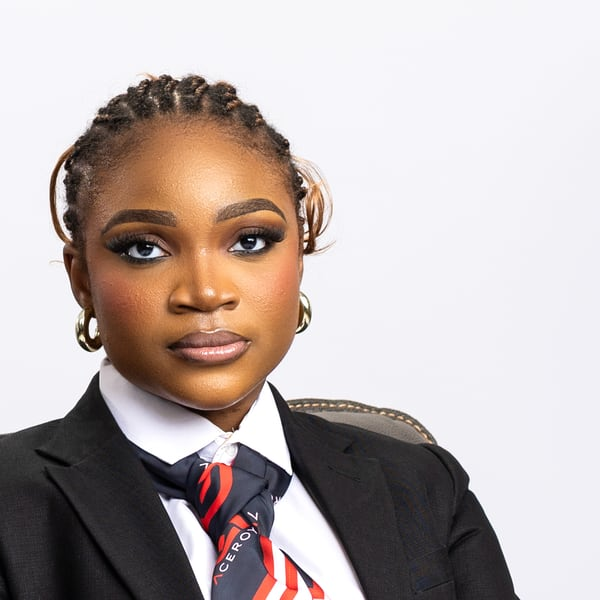
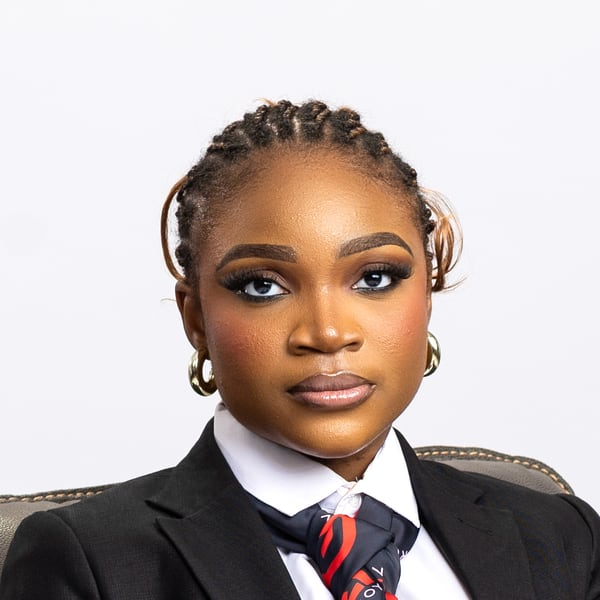
Apply client feedback: contact numbers, hero image, Legacy Garden City
- Office numbers corrected (Lagos +234 915 654 9709, Abuja
  +234 802 764 0727, Benin +234 915 658 8738 / +234 916 112 4425); the
  0201 line removed from the contact page, footer, chat sheet and
  structured data. All numbers shown in +234 format and office numbers
  are tap-to-call links
- Homepage hero: replace the New York street scene with Aceroyal's own
  site-inspection team photo; the skyline slides stay
- Add The Legacy Garden City (Imota, Ikorodu) as a sold-out estate with
  its branded thumbnail and allocation-day gallery; /legacy-garden now
  redirects to its page
- Sold-out estate pages: legible Sold Out badge and no Enquire to
  Purchase button
- Re-centre Annabelle Uroh's headshot

diff --git a/src/lib/fallback-data.ts b/src/lib/fallback-data.ts
@@ -217,6 +217,30 @@ export const fallbackEstates: Estate[] = [
     updatedAt: '2023-03-24T00:00:00.000Z',
   },
   {
+    // Added as a sold-out listing at Aceroyal's request (Oct 2026 feedback).
+    // Description only states facts already on the site: location (from the
+    // branded thumbnail) and the Phase 1 allocation day.
+    id: 'fallback-estate-legacy-garden-city',
+    name: 'The Legacy Garden City',
+    slug: 'legacy-garden-city',
+    description:
+      'The Legacy Garden City is a residential estate at Imota, Ikorodu, Lagos.\n\nAllocation for Phase 1 took place on August 10th, 2024, when landowners received their documents and walked their plots on site. The estate has now sold out.',
+    state: 'Lagos',
+    city: 'Imota, Ikorodu',
+    address: 'Imota, Ikorodu, Lagos',
+    coverImage: '/images/estates/thumbnails/legacy-garden-city.jpg',
+    brochureUrl: null,
+    gallery: [
+      '/images/gallery/allocation-day/legacy-garden-city-allocated.jpg',
+      '/images/gallery/allocation-day/legacy-garden-city-key.jpg',
+    ],
+    status: 'SOLD_OUT',
+    amenities: [],
+    offeringType: 'LAND',
+    createdAt: '2024-08-10T00:00:00.000Z',
+    updatedAt: '2024-08-10T00:00:00.000Z',
+  },
+  {
     id: 'fallback-estate-novena',
     name: 'Novena Estate Phase 2',
     slug: 'novena-estate-phase-2',
@@ -1004,7 +1028,7 @@ export const fallbackBlogPosts = [
     slug: 'metro-city-garden-price-increase-alert',
     excerpt: 'Metro City Garden’s price just jumped from ₦850,000 to ₦1,500,000. See the new pricing and what’s driving the Buy & Hold strategy.',
     content:
-      'The investment strategy called Buy & Hold. It’s a very strategic investment that mostly requires a little chunk of your money, resource, time, and above all, patience.\n\nResearch has shown that the Buy & Hold strategy is one outstanding way to triple your real estate portfolio if you have the patience.\n\nNow unto the good news. Metro City Garden price increase alert: from ₦850,000 to ₦1,500,000. This is so much good news to those who subscribed to the just concluded promo. See how your investment just appreciated in a blink.\n\nMetro City Garden now selling: 500sqm at ₦1,500,000, 300sqm at ₦1,000,000. Location: Itoikin, Epe. Landmarks: Lagos State Food Hub, District 1, Ajebo Grammar School, Isime Lagos.\n\nFeatures: perimeter fencing, green areas, dry land, 24-hour power, water supply, drainage, and more. Title: Freehold/Registered Survey.\n\nMetro City Garden guarantees 100% ROI just as you can see now. Join a team of landowners today and experience peace of mind. For more information, contact our customer care lines: 09156549709, 08053605093.\n\n~ACE, building the future together.',
+      'The investment strategy called Buy & Hold. It’s a very strategic investment that mostly requires a little chunk of your money, resource, time, and above all, patience.\n\nResearch has shown that the Buy & Hold strategy is one outstanding way to triple your real estate portfolio if you have the patience.\n\nNow unto the good news. Metro City Garden price increase alert: from ₦850,000 to ₦1,500,000. This is so much good news to those who subscribed to the just concluded promo. See how your investment just appreciated in a blink.\n\nMetro City Garden now selling: 500sqm at ₦1,500,000, 300sqm at ₦1,000,000. Location: Itoikin, Epe. Landmarks: Lagos State Food Hub, District 1, Ajebo Grammar School, Isime Lagos.\n\nFeatures: perimeter fencing, green areas, dry land, 24-hour power, water supply, drainage, and more. Title: Freehold/Registered Survey.\n\nMetro City Garden guarantees 100% ROI just as you can see now. Join a team of landowners today and experience peace of mind. For more information, contact our customer care lines: +234 915 654 9709, +234 805 360 5093.\n\n~ACE, building the future together.',
     coverImageUrl: '/images/estates/metro-city-garden/metro-city-flyer.jpg',
     published: true,
     createdAt: '2023-03-24T00:00:00.000Z',
@@ -1028,7 +1052,7 @@ export const fallbackBlogPosts = [
     slug: 'goody-bag-promo',
     excerpt: 'Buy a plot at Novena Estate Phase 2 and get 100 bags of Dangote Cement free.',
     content:
-      'Promo! Promo!! Promo!!! AceRoyal got you covered.\n\nAceRoyal Estates Homes Ltd is known for the amazing promos they always make available to their clients. The Goody Bag Promo is the promo of the century. It’s the first of its kind. No other estate company does it better than ACEROYAL.\n\nWhen you buy 1 plot of land in Novena Estate Phase 2, you get 100 bags of Dangote Cement free of charge. With this, you can start fencing your land or start the foundation of your house in Novena Estate 2, Iraye, Epe.\n\nWe don’t just sell land to you, we also support your vision of becoming a homeowner.\n\nJump on this offer today by calling 09156549709 to book an inspection with us now!\n\nAceroyal: we are building the future together!',
+      'Promo! Promo!! Promo!!! AceRoyal got you covered.\n\nAceRoyal Estates Homes Ltd is known for the amazing promos they always make available to their clients. The Goody Bag Promo is the promo of the century. It’s the first of its kind. No other estate company does it better than ACEROYAL.\n\nWhen you buy 1 plot of land in Novena Estate Phase 2, you get 100 bags of Dangote Cement free of charge. With this, you can start fencing your land or start the foundation of your house in Novena Estate 2, Iraye, Epe.\n\nWe don’t just sell land to you, we also support your vision of becoming a homeowner.\n\nJump on this offer today by calling +234 915 654 9709 to book an inspection with us now!\n\nAceroyal: we are building the future together!',
     coverImageUrl: '/images/estates/novena-estate/novena-goody-bag-flyer.jpg',
     published: true,
     createdAt: '2022-10-17T00:00:00.000Z',
@@ -1052,7 +1076,7 @@ export const fallbackBlogPosts = [
     slug: 'estate-launch-la-regina-luxury-resort-and-novena-estate-phase-2',
     excerpt: 'AceRoyal officially launches La Regina Luxury Resort Estate (Ketu, Epe) and Novena Estate Phase 2 (Iraye, Epe).',
     content:
-      'You’re invited!\n\nAceRoyal Estates Homes Ltd invites the general public to the launching of her estates: La Regina Luxury Resort Estate, located at Ketu, Epe, and Novena Estate Phase 2, located at Iraye, Epe.\n\nWith Coach Spark Ovadje as the Chief Launcher and host of other co-launchers. If you know Coach Spark very well (Nigeria’s National Real Estate Coach), then you will know this is not an event to miss, because there is so much to learn and unlearn!\n\nThere are a lot of amazing things that will happen on that day. We will have a raffle draw where so many persons will have the opportunity of winning a free standing fan, an electric kettle, a LED TV, a mini-refrigerator, and lots more!\n\nBuses will be available at strategic locations to pick and drop you off.\n\nYou will have plenty to eat and drink.\n\nThe time remains 9 AM on Saturday, June 18th, 2022. See you on Saturday, and till then, please stay safe!\n\nCall/WhatsApp 09156549709 for further inquiries.',
+      'You’re invited!\n\nAceRoyal Estates Homes Ltd invites the general public to the launching of her estates: La Regina Luxury Resort Estate, located at Ketu, Epe, and Novena Estate Phase 2, located at Iraye, Epe.\n\nWith Coach Spark Ovadje as the Chief Launcher and host of other co-launchers. If you know Coach Spark very well (Nigeria’s National Real Estate Coach), then you will know this is not an event to miss, because there is so much to learn and unlearn!\n\nThere are a lot of amazing things that will happen on that day. We will have a raffle draw where so many persons will have the opportunity of winning a free standing fan, an electric kettle, a LED TV, a mini-refrigerator, and lots more!\n\nBuses will be available at strategic locations to pick and drop you off.\n\nYou will have plenty to eat and drink.\n\nThe time remains 9 AM on Saturday, June 18th, 2022. See you on Saturday, and till then, please stay safe!\n\nCall/WhatsApp +234 915 654 9709 for further inquiries.',
     coverImageUrl: '/images/blog/estate-launch/launch-invite-flyer.jpg',
     published: true,
     createdAt: '2022-06-17T00:00:00.000Z',
@@ -1519,7 +1543,7 @@ export const fallbackOffices = [
     state: 'Lagos',
     city: 'Ajah',
     address: 'KM 22 Lekki-Epe Expressway, By University View Estate, Opposite Lagos Business School, Ajah, Lagos, Nigeria.',
-    phones: ['02013300287', '09156549709'],
+    phones: ['+234 915 654 9709'],
     emails: ['customercare@aceroyalestates.com'],
     openingHours: 'Mon-Fri: 9am - 5pm',
   },
@@ -1531,7 +1555,7 @@ export const fallbackOffices = [
     state: 'Abuja',
     city: 'Gwarimpa',
     address: 'House A, 45 Road off Navy Quarters, By First Avenue, Gwarimpa, Abuja.',
-    phones: ['02013300287', '09156549709'],
+    phones: ['+234 802 764 0727'],
     emails: ['customercare@aceroyalestates.com'],
     openingHours: 'Mon-Fri: 9am - 5pm',
   },
@@ -1543,7 +1567,7 @@ export const fallbackOffices = [
     state: 'Edo',
     city: 'Benin City',
     address: 'No 2 New Lagos Road, Off 2nd Junction, by Akpakpava, Benin City.',
-    phones: ['02013300287', '09156549709'],
+    phones: ['+234 915 658 8738', '+234 916 112 4425'],
     emails: ['customercare@aceroyalestates.com'],
     openingHours: 'Mon-Fri: 9am - 5pm',
   },

diff --git a/src/app/contact/ContactForm.tsx b/src/app/contact/ContactForm.tsx
@@ -15,6 +15,12 @@ import { Stagger } from '@/components/motion/Stagger';
 
 const WHATSAPP_NUMBER = '2349156549709';
 
+// '+234 915 654 9709' (or a local '0915...' number) -> 'tel:+2349156549709'
+function telHref(phone: string) {
+  const digits = phone.replace(/\D/g, '');
+  return `tel:+${digits.startsWith('0') ? `234${digits.slice(1)}` : digits}`;
+}
+
 export default function ContactForm() {
   const [formData, setFormData] = useState({
     fullName: '',
@@ -252,13 +258,13 @@ export default function ContactForm() {
                   <div className="p-8">
                   <h2 className="text-xl font-bold mb-6">Reach Us Directly</h2>
                   <div className="space-y-5">
-                    <a href="tel:+2342013300287" className="flex items-start gap-4 group">
+                    <a href="tel:+2349156549709" className="flex items-start gap-4 group">
                       <div className="bg-primary/10 p-3 rounded-lg shrink-0">
                         <Phone className="w-5 h-5 text-primary" />
                       </div>
                       <div>
                         <h3 className="font-semibold mb-1 group-hover:text-primary transition-colors">Phone</h3>
-                        <p className="text-sm text-muted-foreground">0201 330 0287, 0915 654 9709</p>
+                        <p className="text-sm text-muted-foreground">+234 915 654 9709</p>
                       </div>
                     </a>
 
@@ -341,7 +347,13 @@ export default function ContactForm() {
                     <h3 className="font-semibold mb-2">{office.name || `${office.city || office.state} Office`}</h3>
                     <p className="text-sm text-muted-foreground leading-relaxed mb-3">{office.address}</p>
                     {office.phones?.length > 0 && (
-                      <p className="text-sm text-muted-foreground">{office.phones.join(', ')}</p>
+                      <p className="flex flex-wrap gap-x-3 gap-y-1 text-sm text-muted-foreground">
+                        {office.phones.map((phone: string) => (
+                          <a key={phone} href={telHref(phone)} className="hover:text-primary transition-colors">
+                            {phone}
+                          </a>
+                        ))}
+                      </p>
                     )}
                     </div>
                   </div>

diff --git a/src/app/estates/[slug]/page.tsx b/src/app/estates/[slug]/page.tsx
@@ -202,7 +202,7 @@ export default async function EstateDetailPage({ params }: { params: Promise<{ s
                     <span
                       className={`rounded-full px-3 py-1 text-xs font-semibold uppercase tracking-wide ${
                         estate.status === 'SOLD_OUT'
-                          ? 'bg-slate-900 text-white dark:bg-slate-100 dark:text-slate-900'
+                          ? 'bg-slate-200 text-slate-800 dark:bg-white/15 dark:text-white'
                           : 'bg-primary/10 text-primary'
                       }`}
                     >
@@ -216,10 +216,12 @@ export default async function EstateDetailPage({ params }: { params: Promise<{ s
                   )}
                   {/* Only Enquire sits up here with the status badge — the
                       rest of the CTAs stay in their original spot below the
-                      description. */}
-                  <Button size="sm" asChild>
-                    <Link href={`/contact?estate=${estate.slug}&enquiry=PURCHASE`}>Enquire to Purchase</Link>
-                  </Button>
+                      description. Hidden once an estate is sold out. */}
+                  {estate.status !== 'SOLD_OUT' && (
+                    <Button size="sm" asChild>
+                      <Link href={`/contact?estate=${estate.slug}&enquiry=PURCHASE`}>Enquire to Purchase</Link>
+                    </Button>
+                  )}
                 </div>
                 <h1 className="text-4xl md:text-5xl font-bold leading-tight">{estate.name}</h1>
                 <div className="flex items-center gap-2 text-muted-foreground">

diff --git a/next.config.ts b/next.config.ts
@@ -11,6 +11,7 @@ const nextConfig: NextConfig = {
       { source: "/downtown-lagos", destination: "/estates/downtown-lagos", permanent: true },
       { source: "/eko-paragon-residence", destination: "/estates/eko-paragon-residence", permanent: true },
       { source: "/prime-annex", destination: "/estates/prime-annex", permanent: true },
+      { source: "/legacy-garden", destination: "/estates/legacy-garden-city", permanent: true },
 
       // --- Offerings renamed to the client's approved unit names ---
       { source: "/properties/villa-nova-3-bedroom-bungalow", destination: "/properties/villa-nova-bungalows", permanent: true },
@@ -20,7 +21,6 @@ const nextConfig: NextConfig = {
 
       // --- Discontinued/legacy estate pages: no new-site equivalent, send
       // to the current estate catalogue instead of 404 ---
-      { source: "/legacy-garden", destination: "/estates", permanent: true },
       { source: "/the-prime", destination: "/estates", permanent: true },
       { source: "/the-prime-2", destination: "/estates", permanent: true },
       { source: "/prestige", destination: "/estates", permanent: true },

diff --git a/src/components/layout/ChatFab.tsx b/src/components/layout/ChatFab.tsx
@@ -6,8 +6,8 @@ import { ChevronRight, MessageCircle, Phone } from 'lucide-react';
 import { Sheet, SheetContent, SheetDescription, SheetTitle, SheetTrigger } from '@/components/ui/sheet';
 import { WHATSAPP_NUMBER, ENQUIRY_OPTIONS, estateLabelFromPath } from '@/components/layout/whatsapp-enquiry';
 
-const PHONE_DISPLAY = '0201 330 0287';
-const PHONE_HREF = 'tel:+2342013300287';
+const PHONE_DISPLAY = '+234 915 654 9709';
+const PHONE_HREF = 'tel:+2349156549709';
 
 const rowClass =
   'flex min-h-14 items-center gap-4 rounded-xl px-3 py-3 text-left transition-colors hover:bg-muted focus-visible:bg-muted focus-visible:outline-none';

diff --git a/src/components/home/HeroSection.tsx b/src/components/home/HeroSection.tsx
@@ -98,7 +98,9 @@ export default function HeroSection() {
     },
     {
       type: 'image' as const,
-      url: 'https://images.unsplash.com/photo-1449824913935-59a10b8d2000?auto=format&fit=crop&w=1920&q=80',
+      // Aceroyal's own team on a site inspection (replaced a stock New York
+      // street scene that read as foreign for this audience).
+      url: '/images/brand/site-inspection-team.jpg',
       headline: ['Building the Future', 'Together'],
     },
   ];

diff --git a/src/app/layout.tsx b/src/app/layout.tsx
@@ -74,7 +74,7 @@ const organizationJsonLd = {
   url: SITE_URL,
   logo: `${SITE_URL}/images/aceroyal-symbol-colour.png`,
   email: 'customercare@aceroyalestates.com',
-  telephone: ['+234-201-330-0287', '+234-915-654-9709'],
+  telephone: ['+234-915-654-9709'],
   address: {
     '@type': 'PostalAddress',
     streetAddress: 'KM 22 Lekki-Epe Expressway, By University View Estate, Opposite Lagos Business School, Ajah',

diff --git a/src/components/layout/Footer.tsx b/src/components/layout/Footer.tsx
@@ -55,7 +55,7 @@ export function Footer() {
             </li>
             <li className="flex gap-3">
               <Phone className="w-5 h-5 text-primary shrink-0" />
-              <span>0201 330 0287, 0915 654 9709</span>
+              <span>+234 915 654 9709</span>
             </li>
             <li className="flex gap-3">
               <Mail className="w-5 h-5 text-primary shrink-0" />
